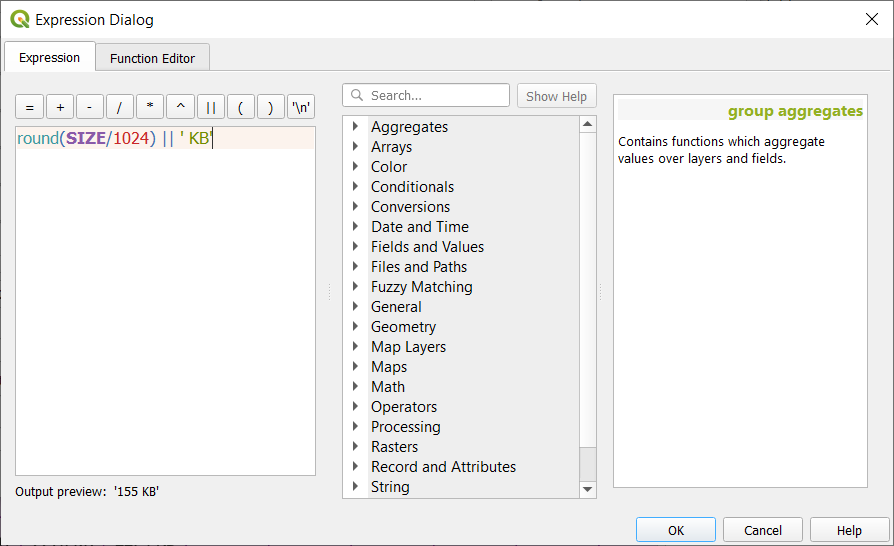
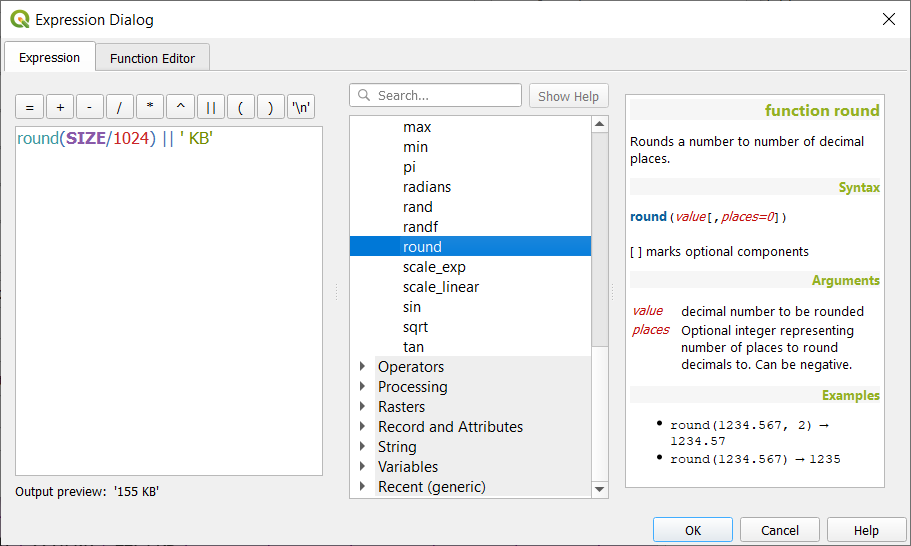
ex1 done

diff --git a/README.md b/README.md
@@ -3,6 +3,8 @@ A workshop held at Geo4LibCamp, February 3, 2020, 1:30-4:30pm
 by Keith Jenkins, GIS Librarian at Cornell University
 <https://kgjenkins.github.io/openindexmaps-workshop/>
 
+<style>img { vertical-align:top }</style>
+
 In this workshop, we'll learn how to use QGIS to create OpenIndexMaps GeoJSON files that can be used in GeoBlacklight (GBL) to provide access to a series of maps or other datasets.
 
 Download the data for this workshop here:
@@ -21,6 +23,7 @@ Then we'll work through various scenarios:
 - [Exercise 4](#ex4): Create a grid index map from scratch
 
 
+
 # Index Maps
 
 An index map provides a map-based guide to finding individual maps or datasets in a series based upon their location.  They can be grid-like, with each rectangle representing a separate topographic map in a series, for example:
@@ -34,6 +37,7 @@ Or they can be point-based, with each point in the index referring to the approx
 Or they can even be lines, each representing a LiDAR collection flight line:
 
 ![line index map](https://kgjenkins.github.io/openindexmaps-workshop/image/index-map-lines.png)
+
 
 
 # OpenIndexMaps
@@ -118,17 +122,21 @@ Things to know about GeoJSON:
 - GeoJSON is not recommended for large datasets (>10MB) but should be fine for most index maps
 
 
+
 # QGIS
 
 QGIS is a free, open-source desktop application for mapping and geospatial analysis.  It is a volunteer-driven project with contributers from around the world.  It reads and writes nearly every possible GIS data format, and has many features that are particularly useful for creating OpenIndexMaps GeoJSON files.
 
 A quick tour of QGIS:
+
 - Identify tool  ![EPSG:3857](https://kgjenkins.github.io/openindexmaps-workshop/image/identify-tool.png) lets you look at a feature's attributes
 - Layer Styling panel ![processing toolbox button](https://kgjenkins.github.io/openindexmaps-workshop/image/layer-styling-button.png)
 - Selection tools are useful for running processing tools on subsets, or saving subsets as new layers
   - ![selection tools 1](https://kgjenkins.github.io/openindexmaps-workshop/image/selection-tools1.png) and ![selection tools 2](https://kgjenkins.github.io/openindexmaps-workshop/image/selection-tools2.png)
 - Processing toolbox ![processing toolbox button](https://kgjenkins.github.io/openindexmaps-workshop/image/processing-button.png) contains hundreds of tools, including tools from other open-source GIS programs like GDAL and GRASS
 - Over 600 plugins written by QGIS users provide a wide range of additional functionality
+
+
 ## CRS (coordinate reference system)
 
 QGIS, like most open-source GIS programs, uses standard [EPSG codes](https://epsg.io/) for coordinate systems and map projections.
@@ -145,6 +153,7 @@ QGIS, like most open-source GIS programs, uses standard [EPSG codes](https://eps
   - Project (map) CRS is identified in lower-right corner ![EPSG:3857](https://kgjenkins.github.io/openindexmaps-workshop/image/project-crs.png)
     - Click it to change the Project CRS
     - Or right-click a layer name > Set CRS > Set Project CRS from Layer
+
 
 ## QuickMapServices
 
@@ -165,6 +174,7 @@ Each plugin works a bit differently -- some add menus items, some add tool butto
 8. Click "Get contributed pack"
 
 
+
 <a name="ex1"></a>
 # Exercise 1: Create a polygon index map from an existing shapefile
 
@@ -180,7 +190,7 @@ Be sure to extract the contents of the .zip file to your computer.
 
 Let's verify that the data is in the correct location by adding a basemap, and set our map to use the CRS of the basemap.
 
-3. Web > QuickMapServices > OSM > OSM Standard
+3. Web > QuickMapServices > Google > Google Road
 4. Right-click the "OSM Standard" layer name > Set CRS > Set Project CRS from Layer
 
 To improve the visibility of both the index map and the basemap, let's change the style of the index map:
@@ -198,23 +208,25 @@ Let's explore the values in the table, to get an idea of how we might want to co
 
 Notice the values found in the different fields:
 
-FILENAME : uniquely identifies each tile, useful as title or label
-SIZE : size in bytes, which we could convert to a more readable KB and put into a note
+```
+FILENAME : uniquely identifies each tile
+SIZE : size in bytes
 COLLECTION : always the same
 YEAR : always the same
-PARTIAL : indicates tiles with incomplete coverage, could go into a note
+PARTIAL : indicates tiles with incomplete coverage
 DEM_COLLEC : always the same
 TILE_DATE : always the same
 NOTES : empty
 DIRECT_DL : download url
 Shape_Leng : irrelevant
 Shape_Area : irrelevant
+```
 
 For the purposes of an index map, we can probably leave out any columns where every value is the same.  (It might make more sense to add that information as metadata for the index map as a whole.)
 
 QGIS has a processing tool called "Refactor fields" that will let us rename, delete, and manipulate the values of these fields
 
-11. In the processing toolbox, search for "refactor fields" and open the tool.  The settings below will output a copy of the index map with just four fields: title, label (the unique identifier from FILENAME), note (size in KB), and downloadUrl.  In this case, we are putting the size into a note so that it will display in the GBL interface.
+11. In the processing toolbox, search for "refactor fields" and open the tool.  The settings below will output a copy of the index map with just four fields: title, label, note, and downloadUrl.  In this case, we are putting the size into a note so that it will display in the GBL interface.  **Be sure to set all the types to string.**  The lengthand precision values don't matter for strings.
 
 ![refactor fields dialog](https://kgjenkins.github.io/openindexmaps-workshop/image/ex1-refactor-fields.png)
 
@@ -222,10 +234,40 @@ The source expressions can be typed in directly, but if you click on the epsilon
 
 ![expression dialog](https://kgjenkins.github.io/openindexmaps-workshop/image/ex1-expression-dialog.png)
 
+Leave the default setting "Create temporary layer", which will let you see the output without cluttering up your drive with files.
 
-- export as geojson
-- RFC7946, WGTS84
-- beware of date-like fields (ogr2ogr has new option, though!)
+12. Click "Run" and leave the "Refactor fields" dialog open in case you need to make any corrections and run it again.
+
+You should have a new layer called "Refactored" on your map.  Use the identify tool or look at the attribute table to make sure the results look right.  If you need to make any corrections, remove the "Refactored" layer, then go back to the "Parameters" tab of the dialog, make your changes and run it again.
+
+Once we're satisfied with the output, we are ready to save it as a GeoJSON file.
+
+13. Right-click the "Refactored" layer > Make Permanent...
+  - Set Format = GeoJSON
+  - Always click the '...' button to specify where you want the file saved!
+  - Under Layer Options, set RFC7946 = YES (this will force it into WGS84, and set decimal precision at 7 digits)
+
+Now you should have an index map saved as a GeoJSON file!  If you open it in a text editor, you'll see that it starts something like this:
+
+```
+{
+"type": "FeatureCollection",
+"name": "erie-2008-dem-index",
+"features": [
+```
+
+You could also copy or drag the GeoJSON into [geojsonlint.com](http://geojsonlint.com/), which will check for any parsing errors and also render the GeoJSON in a map.
+
+Notice that only metadata is the "name", which we be whatever you named the file.  It would be a good idea to provide a bit more information, which could be added manually.  At this time, there are no standard properties for the index map as a whole, but that is something that OpenIndexMaps may develop in the future.  Here is an example of what we do for CUGIR:
+
+```
+{
+"type": "FeatureCollection",
+"name": "cugir-009099-index",
+"title": "Index of 2-meter DEM, Tompkins County NY, 2008",
+"websiteUrl": "https://cugir.library.cornell.edu/catalog/cugir-009099",
+```
+
 
 
 <a name="ex2"></a>
